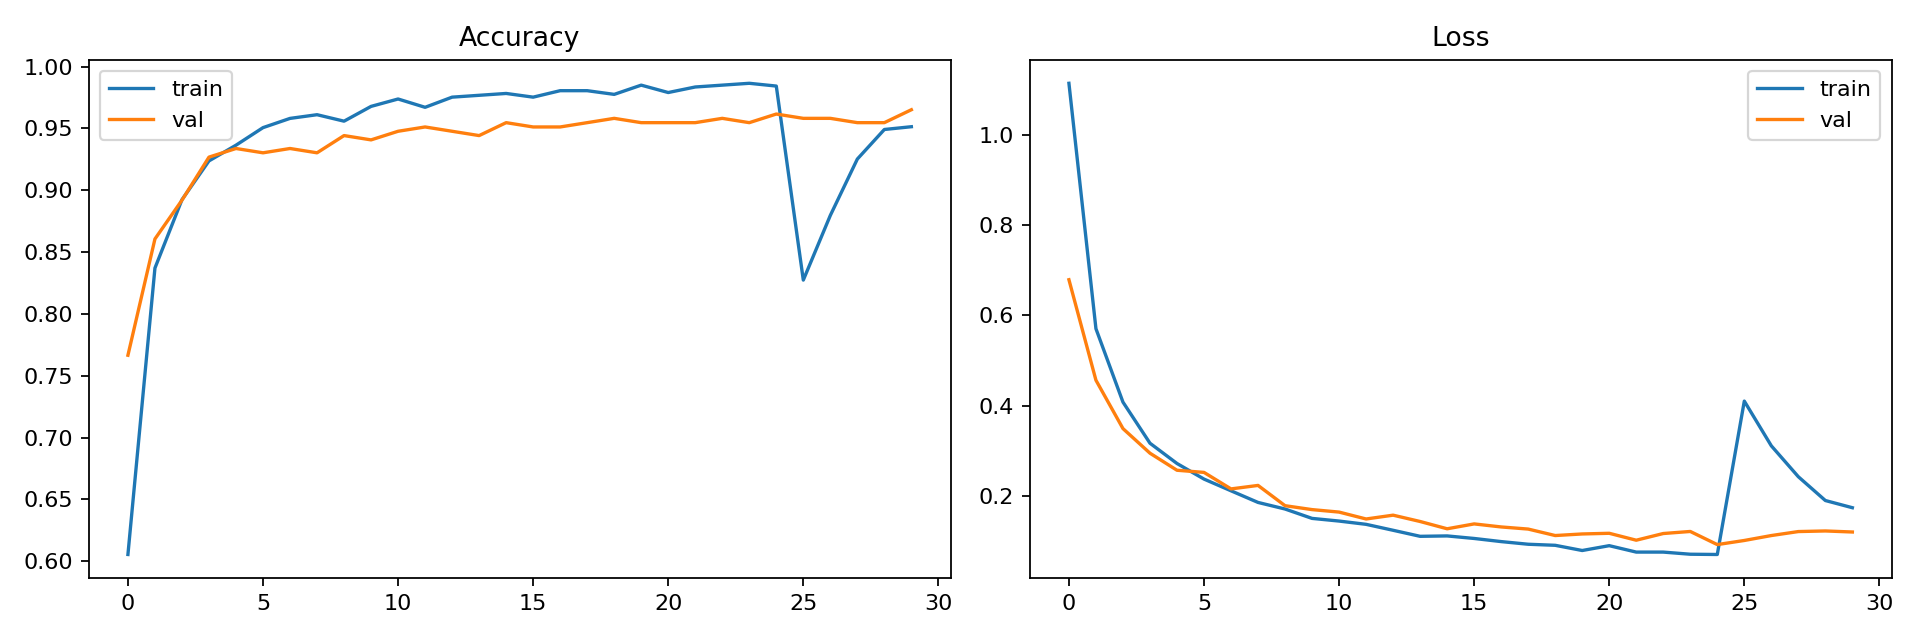
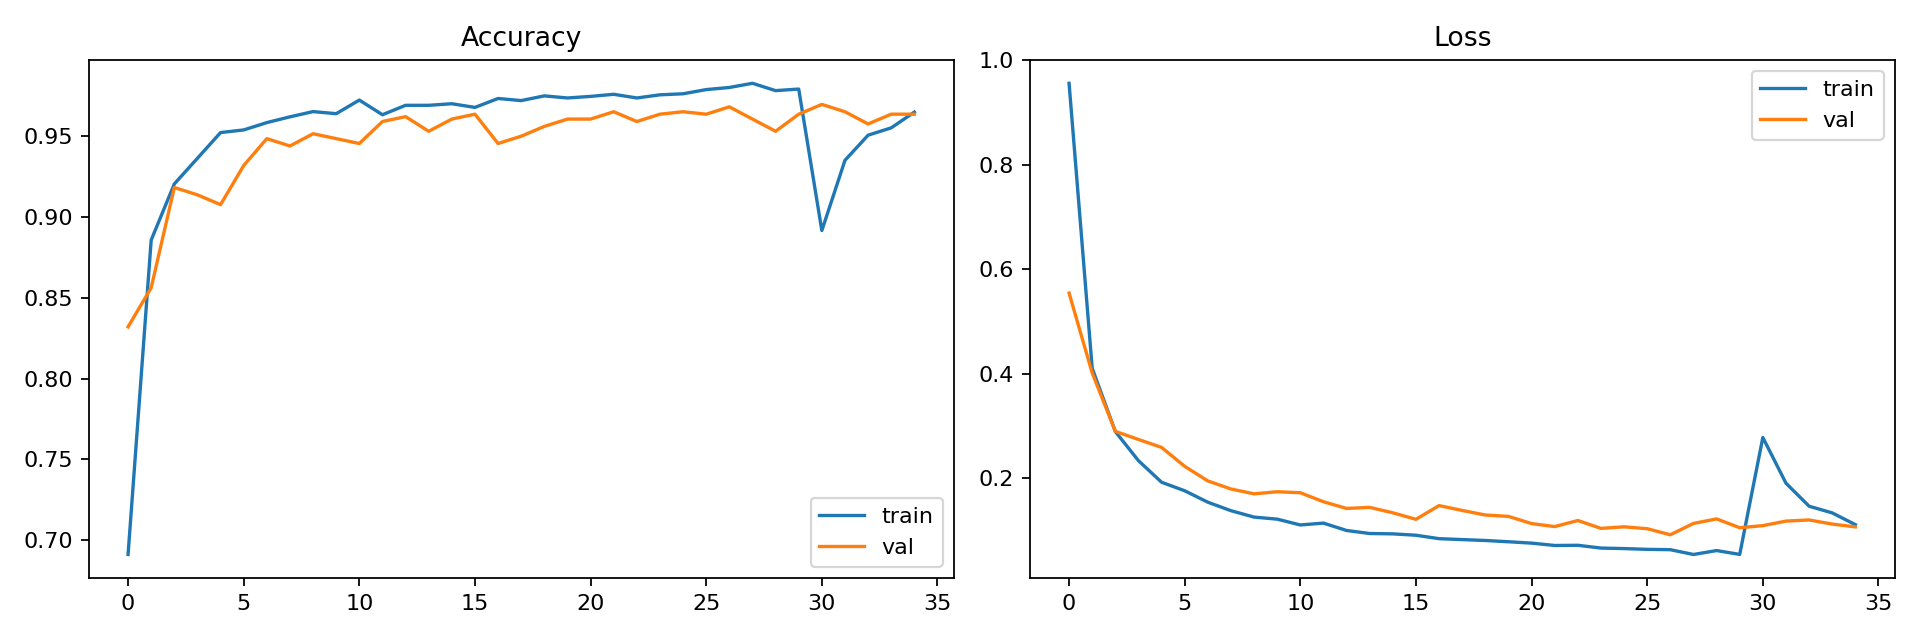
Update project with expanded 8-class results

diff --git a/outputs/reports/final_project_summary.md b/outputs/reports/final_project_summary.md
@@ -15,22 +15,25 @@ The objective is to automate visual quality inspection in FDM 3D printing using 
 
 ## Dataset Used
 
-Dataset: FDM 3D Printing Defect Dataset from Kaggle
+Dataset: Expanded FDM defect dataset merged from Kaggle sources
 
 Classes:
 
 - Cracking
 - Layer_shifting
+- No_defect
 - Off_platform
+- Spaghetti
 - Stringing
+- Under_extrusion
 - Warping
 
 Dataset inspection:
 
-- Total images: 1912
-- Train images: 1338
-- Validation images: 287
-- Test images: 287
+- Total images: 4405
+- Train images: 3083
+- Validation images: 661
+- Test images: 661
 - Corrupt images: 0
 
 ## Model
@@ -48,24 +51,22 @@ Important techniques:
 
 ## Results
 
-Test accuracy: 97.56%
+Test accuracy: 96.52%
 
 Per-class F1-score:
 
-- Cracking: 0.9640
-- Layer_shifting: 0.9643
-- Off_platform: 0.9286
-- Stringing: 1.0000
-- Warping: 0.9814
+- Cracking: 0.9714
+- Layer_shifting: 0.9815
+- No_defect: 0.9380
+- Off_platform: 0.9655
+- Spaghetti: 0.9863
+- Stringing: 0.9890
+- Under_extrusion: 0.9424
+- Warping: 0.9816
 
-Weighted F1-score: 0.9758
+Macro F1-score: 0.9695
 
-Macro ROC-AUC: 0.9995
-
-Local CPU inference speed:
-
-- Average time per image: 64.24 ms
-- Estimated throughput: 15.57 FPS
+Weighted F1-score: 0.9650
 
 ## Project Outputs
 
@@ -75,7 +76,6 @@ Local CPU inference speed:
 - Classification report: `outputs/reports/classification_report.txt`
 - Confusion matrix: `outputs/figures/confusion_matrix.png`
 - Training curves: `outputs/figures/training_curves.png`
-- ROC curves: `outputs/figures/roc_curves.png`
 - Grad-CAM output: `outputs/figures/gradcam_<image_name>.png`
 
 ## Added Research-Gap Features
@@ -91,7 +91,7 @@ The base research gap says many systems stop at classification. This project ext
 
 ## Current Limitation
 
-The current trained model only detects the five classes used during training. More defects such as under-extrusion, over-extrusion, nozzle clogging, blobs/zits, layer separation, and no-defect require additional labeled data and retraining.
+The current trained model detects the eight classes used during expanded training. More defects such as over-extrusion, nozzle clogging, blobs/zits, and layer separation require additional labeled data and retraining.
 
 ## Future Work
 

diff --git a/README.md b/README.md
@@ -87,19 +87,17 @@ streamlit run src/app.py
 - `outputs/reports/classification_report.txt`
 - `outputs/figures/training_curves.png`
 - `outputs/figures/confusion_matrix.png`
-- `outputs/figures/roc_curves.png`
 - `outputs/figures/gradcam_<image_name>.png`
-- `outputs/reports/evaluation_metrics.json`
 - `outputs/reports/dataset_expansion_research.md`
 - `outputs/reports/final_project_summary.md`
 
 ## Current Trained Result
 
 - Architecture: EfficientNetB0
-- Test accuracy: 97.56%
-- Weighted F1-score: 97.58%
-- Macro ROC-AUC: 99.95%
-- Local CPU inference estimate: about 64 ms per image, around 15 FPS
+- Classes: 8
+- Test accuracy: 96.52%
+- Weighted F1-score: 96.50%
+- Macro F1-score: 96.95%
 
 ## Interactive Demo
 
@@ -110,7 +108,7 @@ The Streamlit panel supports:
 - Displaying predicted defect class and confidence.
 - Showing possible causes and corrective actions.
 
-The current trained model detects only the five classes in the Kaggle dataset. Extra defects such as under-extrusion, over-extrusion, nozzle clog, blobs/zits, and no-defect require additional labeled datasets and retraining.
+The current trained model detects `Cracking`, `Layer_shifting`, `No_defect`, `Off_platform`, `Spaghetti`, `Stringing`, `Under_extrusion`, and `Warping`. Extra defects such as over-extrusion, nozzle clog, blobs/zits, and layer separation require additional labeled datasets and retraining.
 
 ## Expanded Dataset Training
 

diff --git a/outputs/reports/dataset_inspection.md b/outputs/reports/dataset_inspection.md
@@ -1,6 +1,6 @@
 # Dataset Inspection
 
-Detected class root: `/home/ron/ml/fdm_defect_detection/data/raw/archive/FDM-3D-Printing-Defect-Dataset/data`
+Detected class root: `/kaggle/working/expanded_fdm_dataset`
 
 ## Class Counts
 
@@ -8,14 +8,18 @@ Detected class root: `/home/ron/ml/fdm_defect_detection/data/raw/archive/FDM-3D-
 |---|---:|
 | Cracking | 472 |
 | Layer_shifting | 364 |
+| No_defect | 900 |
 | Off_platform | 91 |
-| Stringing | 447 |
+| Spaghetti | 240 |
+| Stringing | 900 |
+| Under_extrusion | 900 |
 | Warping | 538 |
 
 ## Most Common Image Sizes
 
 | Size | Count |
 |---|---:|
-| 3072x2048 | 1912 |
+| 256x256 | 2940 |
+| 3072x2048 | 1465 |
 
 Corrupt images found: 0